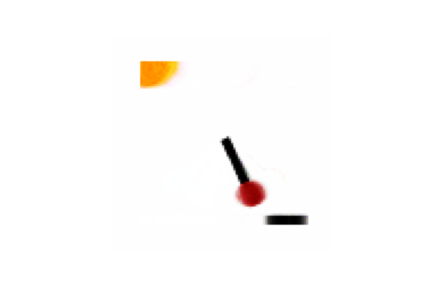
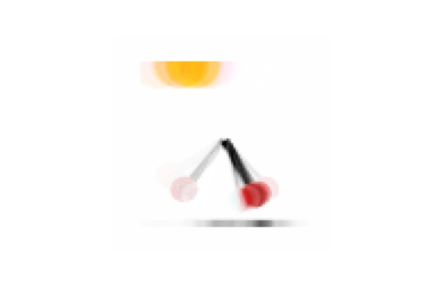
add classical DAG finding algorithm

Changed region(s): [[0.3912, 0.4688, 0.7222, 0.8125], [0.3009, 0.1875, 0.5417, 0.3125]]

diff --git a/main.py b/main.py
@@ -56,7 +56,7 @@ def get_args(debug):
     
     parser.add_argument("--node", default=4, type=int,
                         help="the number of nodes")
-    parser.add_argument("--node_dim", default=1, type=int,
+    parser.add_argument("--node_dim", default=2, type=int,
                         help="dimension of each node")
     parser.add_argument("--flow_num", default=3, type=int,
                         help="the number of invertible NN (planar flow)")
@@ -72,7 +72,7 @@ def get_args(debug):
     
     parser.add_argument('--beta', default=0.1, type=float,
                         help='observation noise')
-    parser.add_argument('--lambda', default=0.1, type=float,
+    parser.add_argument('--lambda', default=1, type=float,
                         help='weight of DAG reconstruction loss')
     # parser.add_argument('--gamma', default=1, type=float,
     #                     help='weight of label alignment loss')
@@ -139,7 +139,7 @@ def train(dataloader, model, B, config, optimizer, device):
     return logs, B, xhat
 #%%
 def main():
-    config = vars(get_args(debug=False)) # default configuration
+    config = vars(get_args(debug=True)) # default configuration
     config["cuda"] = torch.cuda.is_available()
     device = torch.device('cuda:0') if torch.cuda.is_available() else torch.device('cpu')
     wandb.config.update(config)
@@ -227,51 +227,85 @@ def main():
     artifact.add_file('./assets/model.pth')
     wandb.log_artifact(artifact)
     
-    # """model load"""
-    # artifact = wandb.use_artifact('anseunghwan/(causal)VAE/model:v1', type='model')
-    # model_dir = artifact.download()
-    # model = VAE(config)
-    # model.load_state_dict(torch.load(model_dir + '/model.pth'))
+    """model load"""
+    artifact = wandb.use_artifact('anseunghwan/(causal)VAE/model:v3', type='model')
+    model_dir = artifact.download()
+    model = VAE(B, config, device).to(device)
+    if config["cuda"]:
+        model.load_state_dict(torch.load(model_dir + '/model.pth'))
+    else:
+        model.load_state_dict(torch.load(model_dir + '/model.pth', map_location=torch.device('cpu')))
     
-    # """test dataset"""
-    # test_imgs = os.listdir('./utils/causal_data/pendulum/test')
-    # test_x = []
-    # for i in tqdm.tqdm(range(len(test_imgs)), desc="test data loading"):
-    #     test_x.append(np.array(Image.open("./utils/causal_data/pendulum/test/{}".format(test_imgs[i])))[:, :, :3])
-    # test_x = (np.array(test_x).astype(float) - 127.5) / 127.5
-    # test_x = torch.Tensor(test_x) 
+    """test dataset"""
+    class TestCustomDataset(Dataset): 
+        def __init__(self):
+            test_imgs = os.listdir('./utils/causal_data/pendulum/test')
+            test_x = []
+            for i in tqdm.tqdm(range(len(test_imgs)), desc="test data loading"):
+                test_x.append(np.array(
+                    Image.open("./utils/causal_data/pendulum/test/{}".format(test_imgs[i])).resize((96, 96))
+                    )[:, :, :3])
+            self.x_data = (np.array(test_x).astype(float) - 127.5) / 127.5
+            
+            label = np.array([x[:-4].split('_')[1:] for x in test_imgs]).astype(float)
+            label = label - label.mean(axis=0)
+            # label = label / label.std(axis=0)
+            self.y_data = label.round(2)
+
+        def __len__(self): 
+            return len(self.x_data)
+
+        def __getitem__(self, idx): 
+            x = torch.FloatTensor(self.x_data[idx])
+            y = torch.FloatTensor(self.y_data[idx])
+            return x, y
     
-    # model.eval()
+    test_dataset = TestCustomDataset()
+    test_dataloader = DataLoader(test_dataset, batch_size=1, shuffle=False)
     
-    # """intervention"""
-    # causal_latent_orig, causal_latent, xhat, vq_loss, label_hat = model(test_x[:config["batch_size"]])
-    # plt.imshow((test_x[0].cpu().detach().numpy() + 1) / 2)
-    # plt.axis('off')
-    # plt.savefig('./assets/original.png')
-    # plt.close()
+    model.eval()
     
-    # """reconstruction with intervention"""
-    # latent = model.encoder(nn.Flatten()(test_x[:config["batch_size"]]))
-    # epsilon, _ = model.vq_layer(latent)
+    """intervention"""
+    iter_test = iter(test_dataloader)
+    x_batch, y_batch = next(iter_test)
+    if config["cuda"]:
+        x_batch = x_batch.cuda()
+        y_batch = y_batch.cuda()
     
-    # z = causal_latent_orig.clone().detach()[0]
-    # e = epsilon[0]
-    # do_index = 1
-    # do_value = -100
-    # for j in range(config["node"]):
-    #     if j == do_index:
-    #         z[:, [j]] = do_value
-    #     else:
-    #         if j == 0:  # root node
-    #             z[:, [j]] = e[j, :]
-    #         z[:, [j]] = torch.matmul(z[:, :j], torch.tensor(model.B)[:j, [j]].to(device)) + e[j, :]
-    # z = torch.tanh(z)
+    logvar, prior_logvar, latent_orig, causal_latent, xhat = model([x_batch, y_batch])
+    plt.imshow((x_batch[0].cpu().detach().numpy() + 1) / 2)
+    plt.axis('off')
+    plt.savefig('./assets/original.png')
+    plt.close()
     
-    # do_xhat = model.decoder(z.unsqueeze(dim=0)).view(96, 96, 3)
-    # plt.imshow((do_xhat.clone().detach().cpu().numpy() + 1) / 2)
-    # plt.axis('off')
-    # plt.savefig('./assets/do_recon.png')
-    # plt.close()
+    plt.imshow((xhat[0].cpu().detach().numpy() + 1) / 2)
+    plt.axis('off')
+    plt.savefig('./assets/recon.png')
+    plt.close()
+    
+    """reconstruction with intervention"""
+    # z = torch.cat(causal_latent, dim=0).clone().detach()
+    epsilon = torch.exp(logvar / 2) * torch.randn(config["node"] * config["node_dim"]).to(device) 
+    epsilon = epsilon.view(config["node"], config["node_dim"]).contiguous()
+    
+    do_index = 0
+    do_value = 0.9
+    
+    causal_latent[do_index] = torch.tensor([[do_value, do_value]])
+    z = model.inverse(causal_latent)
+    z = torch.cat(z, dim=0).clone().detach()
+    for j in range(config["node"]):
+        if j == 0:  # root node
+            z[j, :] = epsilon[j, :]
+        z[j, :] = torch.matmul(model.B[:j, j].t(), z[:j, :]) + epsilon[j, :]
+    z = torch.split(z, 1, dim=0)
+    z = list(map(lambda x, layer: torch.tanh(layer(x)), z, model.flows))
+    
+    do_xhat = model.decoder(torch.cat(z, dim=1)).view(96, 96, 3)
+    plt.imshow((do_xhat.clone().detach().cpu().numpy() + 1) / 2)
+    plt.axis('off')
+    plt.savefig('./assets/do_recon.png')
+    plt.close()
     
     wandb.run.finish()
 #%%

diff --git a/main_DAG_v1.py b/main_DAG_v1.py
@@ -1,0 +1,174 @@
+#%%
+import os
+os.environ['KMP_DUPLICATE_LIB_OK']='True'
+os.chdir(os.path.dirname(os.path.abspath(__file__)))
+#%%
+import numpy as np
+import pandas as pd
+import tqdm
+from PIL import Image
+import io
+import matplotlib.pyplot as plt
+import matplotlib.image as mpimg
+plt.switch_backend('agg')
+
+import torch
+from torch import nn
+import torch.nn.functional as F
+from torch.utils.data import TensorDataset, DataLoader
+
+from utils.model_DAG import GeneralizedLinearSEM
+
+
+from utils.simulation import (
+    set_random_seed,
+    is_dag,
+    count_accuracy
+)
+
+from utils.viz import (
+    viz_graph,
+    viz_heatmap,
+)
+
+from utils.trac_exp import trace_expm
+#%%
+"""
+wandb artifact cache cleanup "1GB"
+"""
+import sys
+import subprocess
+try:
+    import wandb
+except:
+    subprocess.check_call([sys.executable, "-m", "pip", "install", "wandb"])
+    with open("../wandb_api.txt", "r") as f:
+        key = f.readlines()
+    subprocess.run(["wandb", "login"], input=key[0], encoding='utf-8')
+    import wandb
+
+wandb.init(
+    project="(causal)VAE", 
+    entity="anseunghwan",
+    tags=["true_DAG"]
+)
+#%%
+import argparse
+def get_args(debug):
+    parser = argparse.ArgumentParser('parameters')
+
+    parser.add_argument('--seed', type=int, default=5, 
+                        help='seed for repeatable results')
+
+    parser.add_argument('--node', default=4, type=int,
+                        help='the number of nodes')
+    parser.add_argument('--batch_size', default=256, type=int,
+                        help='batch size')
+    parser.add_argument("--hidden_dim", default=4, type=int,
+                        help="hidden dimensions for MLP")
+    parser.add_argument("--replicate", default=2, type=int,
+                        help="")
+    
+    parser.add_argument('--rho', default=1, type=float,
+                        help='rho')
+    parser.add_argument('--alpha', default=0, type=float,
+                        help='alpha')
+    parser.add_argument('--h', default=np.inf, type=float,
+                        help='h')
+    
+    parser.add_argument('--lr', default=0.001, type=float,
+                        help='learning rate')
+    parser.add_argument('--max_iter', default=100, type=int,
+                        help='maximum iteration')
+    parser.add_argument('--epochs', default=100, type=int,
+                        help='maximum iteration')
+    parser.add_argument('--h_tol', default=1e-8, type=float,
+                        help='h value tolerance')
+    parser.add_argument('--w_threshold', default=0.5, type=float,
+                        help='weight adjacency matrix threshold')
+    parser.add_argument('--lambda', default=0.1, type=float,
+                        help='weight of LASSO regularization')
+    parser.add_argument('--progress_rate', default=0.1, type=float,
+                        help='progress rate')
+    parser.add_argument('--rho_max', default=1e+16, type=float,
+                        help='rho max')
+    parser.add_argument('--rho_rate', default=5, type=float,
+                        help='rho rate')
+
+    if debug:
+        return parser.parse_args(args=[])
+    else:    
+        return parser.parse_args()
+#%%
+def main():
+    config = vars(get_args(debug=True)) # default configuration
+    # config["cuda"] = torch.cuda.is_available()
+    # device = torch.device('cuda:0') if torch.cuda.is_available() else torch.device('cpu')
+    config["cuda"] = False
+    device = torch.device('cpu')
+    wandb.config.update(config)
+
+    set_random_seed(config["seed"])
+    torch.manual_seed(config["seed"])
+    if config["cuda"]:
+        torch.cuda.manual_seed(config["seed"])
+
+    train_imgs = os.listdir('./utils/causal_data/pendulum/train')
+    label = np.array([x[:-4].split('_')[1:] for x in train_imgs]).astype(float)
+    label = label - label.mean(axis=0).round(2) 
+    print("Label Dataset Mean:", label.mean(axis=0).round(2))
+    print("Label Dataset Std:", label.std(axis=0).round(2))
+    # label = label / label.std(axis=0)
+    names = ['light', 'theta', 'length', 'position']
+    
+    data = label[np.random.choice(len(label), int(len(label) * 0.1), replace=False), :]
+
+    """PC algorithm"""
+    from causallearn.search.ConstraintBased.PC import pc
+    cg = pc(data=data, 
+            alpha=0.05, 
+            indep_test='fisherz')
+    print(cg.G)
+    # visualization
+    pdy = GraphUtils.to_pydot(cg.G, labels=names)
+    pdy.write_png('graph_PC.png')
+    Image.open('graph_PC.png')
+
+    """FCI algorithm"""
+    from causallearn.search.ConstraintBased.FCI import fci
+    from causallearn.utils.GraphUtils import GraphUtils
+    
+    G, edges = fci(dataset=data, 
+                   independence_test_method='fisherz', 
+                   alpha=0.05)
+    print(G) # https://www.nature.com/articles/s41598-020-59669-x
+    print(G.graph)
+    # visualization
+    pdy = GraphUtils.to_pydot(G, labels=names)
+    pdy.write_png('graph_FCI.png')
+    Image.open('graph_FCI.png')
+    
+    # """ground-truth"""
+    # B_true = np.zeros((config["node"], config["node"]))
+    # B_true[:2, 2:] = 1
+    # B_true = B_true.astype(float)
+    
+    # B_ = B_masked.detach().cpu().numpy()
+    # # thresholding
+    # B_ = B_ / np.max(np.abs(B_)) # normalize weighted adjacency matrix
+    # B_[np.abs(B_) < config["w_threshold"]] = 0.
+    # B_ = B_.astype(float).round(2)
+    # wandb.run.summary['Is DAG?'] = is_dag(B_)
+    # fig = viz_heatmap(np.flipud(B_), size=(5, 4))
+    # wandb.log({'heatmap_est': wandb.Image(fig)})
+    
+    # """accuracy"""
+    # B_bin = (B_ != 0).astype(float)
+    # acc = count_accuracy(B_true, B_bin)
+    # wandb.log(acc)
+
+    wandb.run.finish()
+#%%
+if __name__ == '__main__':
+    main()
+#%%
